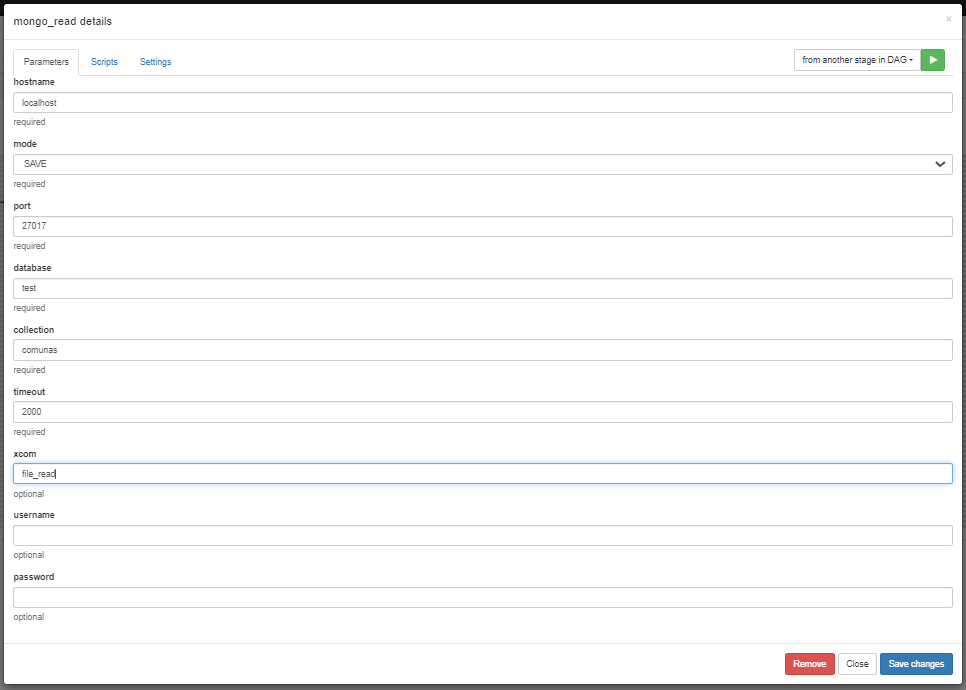
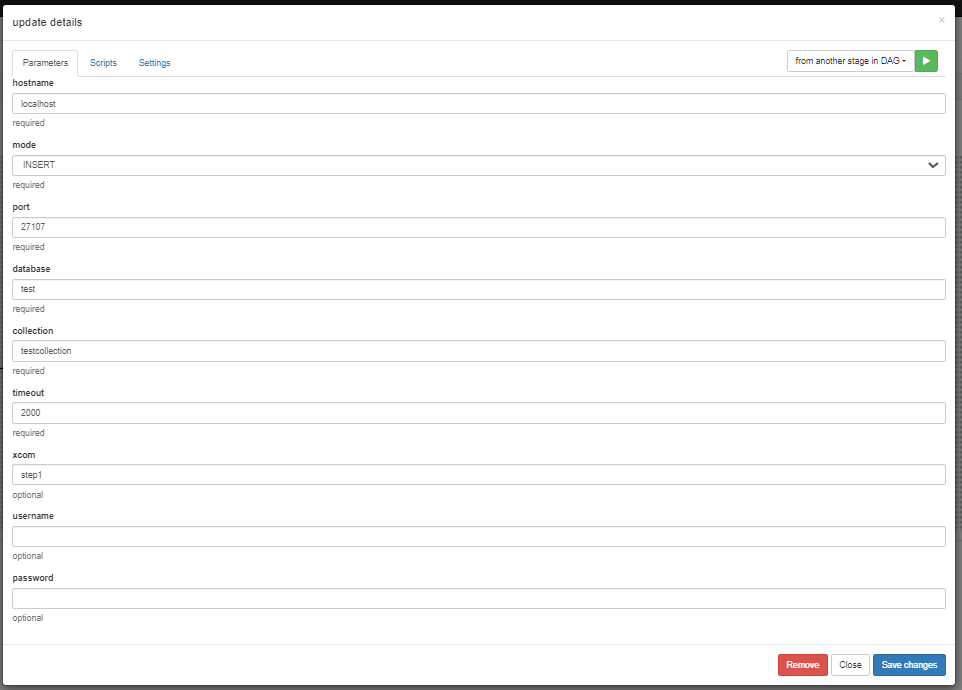
fix(MongDBOperator)
fix bugs in mongodb operator

Changed region(s): [[0.0, 0.0, 1.0, 1.0]]

diff --git a/docs/src/app/ops/ops-base/ops-base.component.html b/docs/src/app/ops/ops-base/ops-base.component.html
@@ -357,7 +357,7 @@
                                 <p><strong><i class="fas fa-external-link-square-alt"></i> Testng Xml Files: </strong> list of xml files with the suites to be executed by the operator, separated by the character ;</p>
                             </div>
                         </section>
-                        <section id="test-ng-section" class="doc-section" tabindex="-1">
+                        <section id="chatgpt-section" class="doc-section" tabindex="-1">
                             <h2 class="section-title">ChatGPT Operator</h2>
                             <div id="step1"  class="section-block">
                                 <p>This operator allows you to call the chatGPT API to generate content directly in an XCOM</p>
@@ -390,7 +390,7 @@
                                 <br>
                                 <br><br>
                                 <p><strong><i class="fas fa-external-link-square-alt"></i> hostname:</strong> Hostname.</p>
-                                <p><strong><i class="fas fa-external-link-square-alt"></i> mode:</strong> Operator operating mode: READ/SAVE/DELETE</p>
+                                <p><strong><i class="fas fa-external-link-square-alt"></i> mode:</strong> Operator operating mode: READ/INSERT/UPDATE/DELETE</p>
                                 <p><strong><i class="fas fa-external-link-square-alt"></i> port: </strong> Database port</p>
                                 <p><strong><i class="fas fa-external-link-square-alt"></i> database: </strong> Database name</p>
                                 <p><strong><i class="fas fa-external-link-square-alt"></i> collection: </strong> Collection name</p>
@@ -398,6 +398,15 @@
                                 <p><strong><i class="fas fa-external-link-square-alt"></i> username: </strong> Optional username</p>
                                 <p><strong><i class="fas fa-external-link-square-alt"></i> password: </strong> Optional Password</p>
                                 <p><strong><i class="fas fa-external-link-square-alt"></i> XCOM: </strong> Optional XCOM for SAVE/DELETE operations</p>
+                                <div class="callout-block callout-success">
+                                    <div class="icon-holder">
+                                        <i class="fas fa-thumbs-up"></i>
+                                    </div><!--//icon-holder-->
+                                    <div class="content">
+                                        <h4 class="callout-title">Useful Tip:</h4>
+                                        <p>For upsert and delete options, a json must be provided as a filter.</p>
+                                    </div><!--//content-->
+                                </div>
                             </div>
                         </section>
                     </div><!--//content-inner-->
@@ -442,16 +451,16 @@
                                     <a class="nav-link scrollto pointer" (click)="goTo('test-ng-section')">TestNG Operator</a>
                                 </li>
                                 <li class="nav-item">
-                                    <a class="nav-link scrollto" href="#dummy-section">ChatGPT Operator</a>
+                                    <a class="nav-link scrollto pointer" (click)="goTo('chatgpt-section')">ChatGPT Operator</a>
+                                </li>
+                                <li class="nav-item">
+                                    <a class="nav-link scrollto pointer" (click)="goTo('mogno-db-section')">MongoDB Operator</a>
                                 </li>
                                 <li class="nav-item">
                                     <a class="nav-link scrollto" href="#dummy-section">Template Operator</a>
                                 </li>
                                 <li class="nav-item">
                                     <a class="nav-link scrollto" href="#dummy-section">RabbitMQ Operator</a>
-                                </li>
-                                <li class="nav-item">
-                                    <a class="nav-link scrollto" href="#dummy-section">MongoDB Operator</a>
                                 </li>
                                 <li class="nav-item">
                                     <a class="nav-link scrollto" href="#dummy-section">Redis Operator</a>

diff --git a/docs/src/app/doc/doc-base/doc-base.component.html b/docs/src/app/doc/doc-base/doc-base.component.html
@@ -322,6 +322,7 @@
                                 <img src="assets/images/fig050.PNG" class="center etl"/>
                                 <p>The configuration of the same operator, but with writing mode, is shown in the following image</p>
                                 <img src="assets/images/fig051.PNG" class="center etl"/>
+                                <p>There are also options to perform upsert and delete, but a json must be defined with the respective filter.</p>
                             </div>
                         </section>
                     </div><!--//content-inner-->
@@ -373,6 +374,9 @@
                                     </li>
                                     <li class="nav-item">
                                         <a class="nav-link scrollto pointer">Publish and Consume RabbitMQ</a>
+                                    </li>
+                                    <li class="nav-item">
+                                        <a class="nav-link scrollto pointer">Publish and Consume Redis</a>
                                     </li>
                                     <li class="nav-item">
                                         <a class="nav-link scrollto pointer">Windows CMD example</a>

diff --git a/front/src/app/infrastructure/inputs/jobs/param-existingj/param-existingj.component.css b/front/src/app/infrastructure/inputs/jobs/param-existingj/param-existingj.component.css
@@ -42,3 +42,7 @@
   .input {
     width: 50%;
   }
+  .tab-content{
+    overflow-y:auto;
+    max-height: 400em;
+  }

diff --git a/front/src/app/infrastructure/inputs/base/result-step-modal/result-step-modal.component.css b/front/src/app/infrastructure/inputs/base/result-step-modal/result-step-modal.component.css
@@ -1,0 +1,3 @@
+.well{
+    overflow-y: auto;
+}

diff --git a/src/main/infra/adapters/operators/MongoDBOperator.java b/src/main/infra/adapters/operators/MongoDBOperator.java
@@ -21,7 +21,6 @@ import com.mongodb.client.MongoClients;
 import com.mongodb.client.MongoCollection;
 import com.mongodb.client.MongoCursor;
 import com.mongodb.client.MongoDatabase;
-import com.mongodb.client.model.Filters;
 import com.mongodb.client.model.UpdateOptions;
 
 import main.domain.annotations.Operator;
@@ -53,6 +52,8 @@ public class MongoDBOperator extends OperatorStage implements Callable<List<Map<
 		String mode = this.args.getProperty("mode");
 		if(mode.equals("READ")) {
 			list = this.read(mongoClient);
+		} else if(mode.equals("INSERT")) {
+			list = this.insert(mongoClient);
 		} else if(mode.equals("UPDATE")) {
 			list = this.save(mongoClient);
 		} else {
@@ -117,7 +118,7 @@ public class MongoDBOperator extends OperatorStage implements Callable<List<Map<
 	    		  String totalFilter = this.optionals.getProperty("filter");
 	    		  filter = Document.parse(totalFilter);
 	    	  } else {
-	    		  filter = Filters.empty();
+	    		  throw new DomainException("no filter json for update?");
 	    	  }
 	    	  UpdateOptions options = new UpdateOptions().upsert(true);
 	    	  collection.updateMany(filter,collectionData,options);
@@ -127,7 +128,43 @@ public class MongoDBOperator extends OperatorStage implements Callable<List<Map<
 		  }
 	}
 	
-	
+
+	private List<Map<String, Object>> insert(MongoClient mongoClient) throws DomainException {
+		  MongoDatabase database = mongoClient.getDatabase(this.args.getProperty("database"));
+		  MongoCollection<Document> collection = database.getCollection(this.args.getProperty("collection"));
+		  if(this.optionals.getProperty("xcom") != null && !this.optionals.getProperty("xcom").isEmpty()) {
+	    	  String xcomname = this.optionals.getProperty("xcom");
+	    	  if(!this.xcom.has(xcomname)) {
+					throw new DomainException("xcom not exist for dagname::"+xcomname);
+	    	  }
+	    	  List<Map<String, Object>> rv = new ArrayList<>();
+	    	  @SuppressWarnings("unchecked")
+	    	  List<Map<String, Object>> data = (List<Map<String, Object>>) this.xcom.get(xcomname);
+	    	  List<Document> collectionData = new ArrayList<>();
+	    	  Integer position = 0;
+	    	  for (Iterator<Map<String, Object>> iterator = data.iterator(); iterator.hasNext();) {
+				Map<String, Object> map = iterator.next();
+				Map<String, Object> status = new HashMap<>();
+				
+				Document document = new Document();
+				for (Map.Entry<String, Object> entry : map.entrySet()) {
+		            String clave = entry.getKey();
+		            Object valor = entry.getValue();
+		            document.put(clave, valor);
+		        }
+				
+				collectionData.add(document);
+				status.put("rownumber", position);
+				rv.add(status);
+				position++;
+	    	  }
+	    	  collection.insertMany(collectionData);
+	    	  return rv;
+		  } else {
+			  throw new DomainException("no xcom selected for write?");
+		  }
+	}
+
 
 	private List<Map<String, Object>> delete(MongoClient mongoClient) throws DomainException {
 		  MongoDatabase database = mongoClient.getDatabase(this.args.getProperty("database"));
@@ -166,7 +203,7 @@ public class MongoDBOperator extends OperatorStage implements Callable<List<Map<
 	public JSONObject getMetadataOperator() {
 		MetadataManager metadata = new MetadataManager("main.infra.adapters.operators.MongoDBOperator");
 		metadata.setParameter("hostname", "text");
-		metadata.setParameter("mode", "list", Arrays.asList("READ","UPDATE","DELETE"));
+		metadata.setParameter("mode", "list", Arrays.asList("READ","INSERT","UPDATE","DELETE"));
 		metadata.setParameter("port", "number");
 		metadata.setParameter("database", "text");
 		metadata.setParameter("collection", "text");
@@ -174,7 +211,7 @@ public class MongoDBOperator extends OperatorStage implements Callable<List<Map<
 		metadata.setOpts("xcom", "text");
 		metadata.setOpts("username", "text");
 		metadata.setOpts("password", "password");
-		metadata.setOpts("filter", "script");
+		metadata.setOpts("filter", "sourcecode");
 		return metadata.generate();
 	}
 	@Override

diff --git a/src/main/domain/services/StageApiService.java b/src/main/domain/services/StageApiService.java
@@ -87,7 +87,8 @@ public class StageApiService extends BaseServiceComponent implements StageApiUse
 			JSONObject step = steps.getJSONObject(j);		
 			if(step.has("source")) {
 				String sourceStepname = step.getJSONObject("source").getJSONObject("attrs").getJSONObject("label").getString("text");
-				dagtmp.addDependency(sourceStepname, step.getString("id"), step.getString("status"));
+				String status = step.getString("status").isEmpty() ? "ANY":step.getString("status");
+				dagtmp.addDependency(sourceStepname, step.getString("id"),status );
 			}
 		}
 	}
